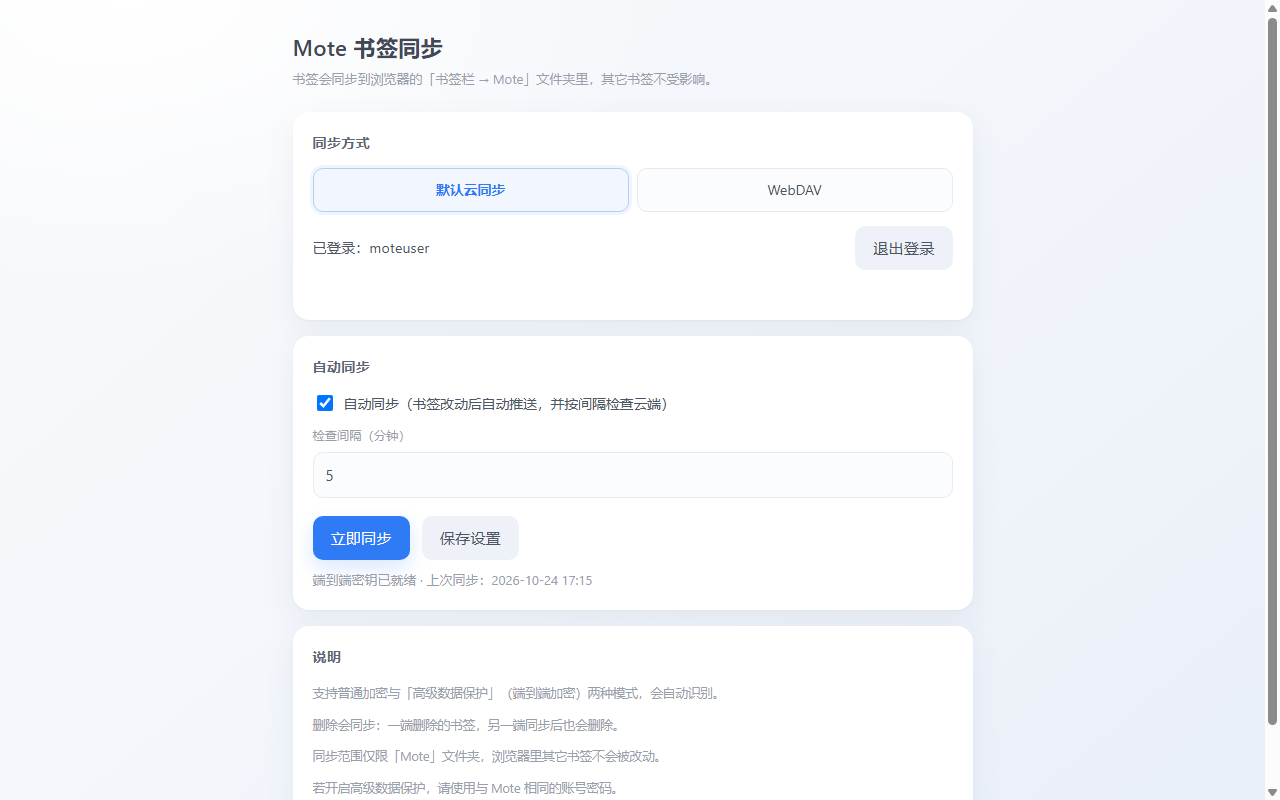
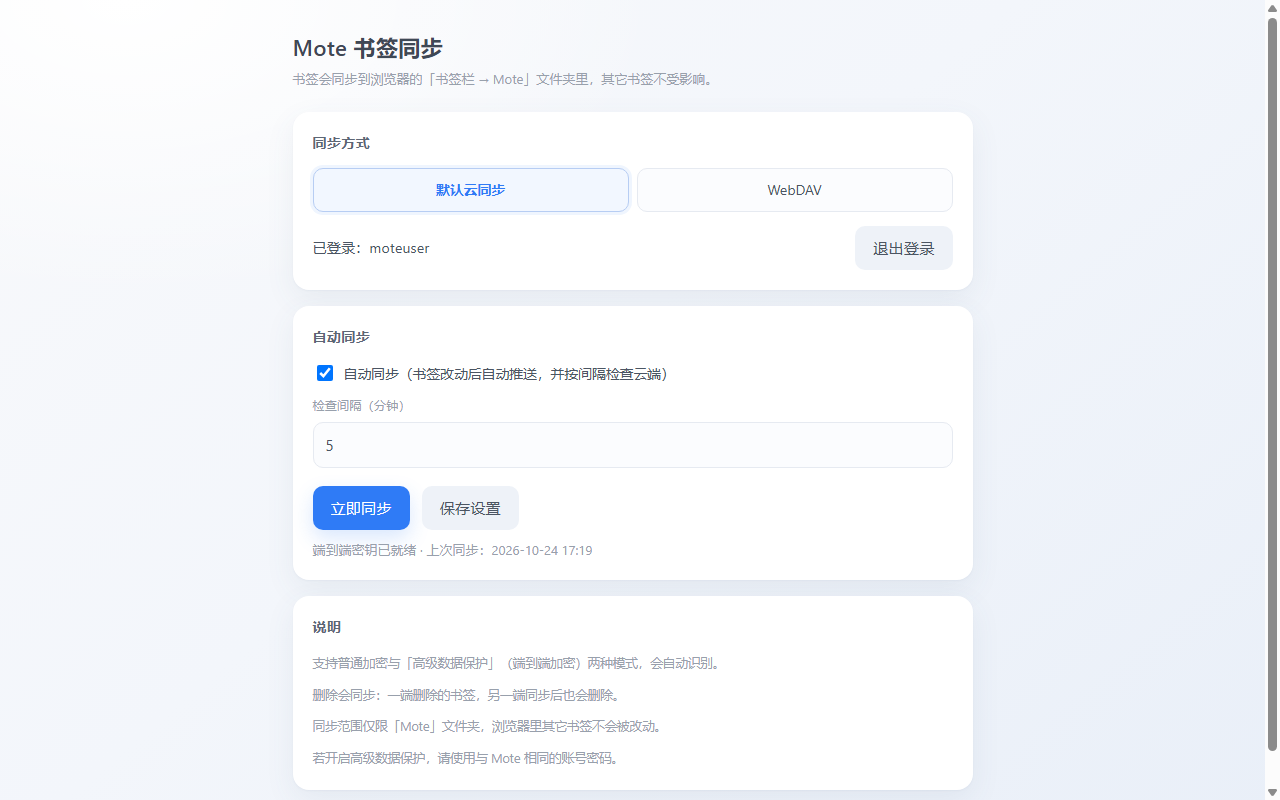
扩展：登出状态卡片底部空行去除，间距收紧
- 空的状态行改为不占位，登录卡片底部留白与顶部一致

- 更新商店截图

diff --git a/extension/options.html b/extension/options.html
@@ -54,10 +54,12 @@
   button.primary{background:var(--blue);color:#fff;box-shadow:0 8px 20px rgba(47,123,246,.18)}
   button.primary:hover{background:#2a70e4}
   .actions{display:flex;gap:12px;flex-wrap:wrap;margin-top:6px}
-  .status{font-size:13px;color:var(--muted);margin-top:10px;min-height:20px}
+  .status{font-size:13px;color:var(--muted);margin-top:10px}
+  .status:empty{display:none;margin-top:0}
   .status.ok{color:var(--ok)}
   .status.err{color:var(--danger)}
   .hint{font-size:12.5px;color:var(--muted);line-height:1.75;margin:10px 0 0}
+  .hint:last-child{margin-bottom:0}
   .hidden{display:none}
   .account-row{display:flex;align-items:center;justify-content:space-between;gap:12px}
   .account-name{font-size:14px;color:var(--text);letter-spacing:.2px}
